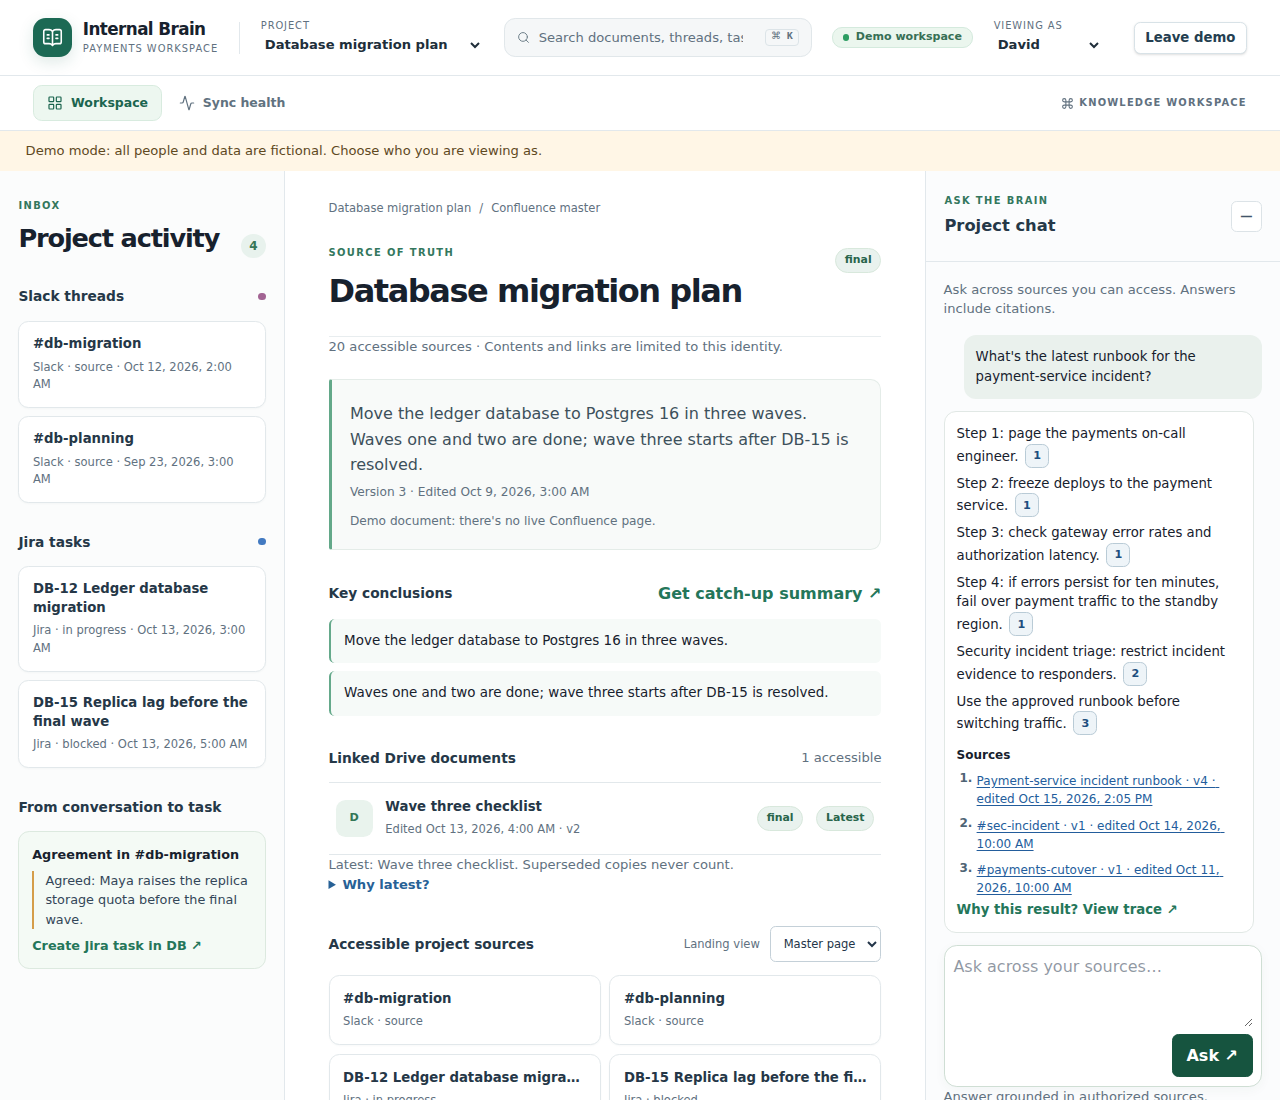
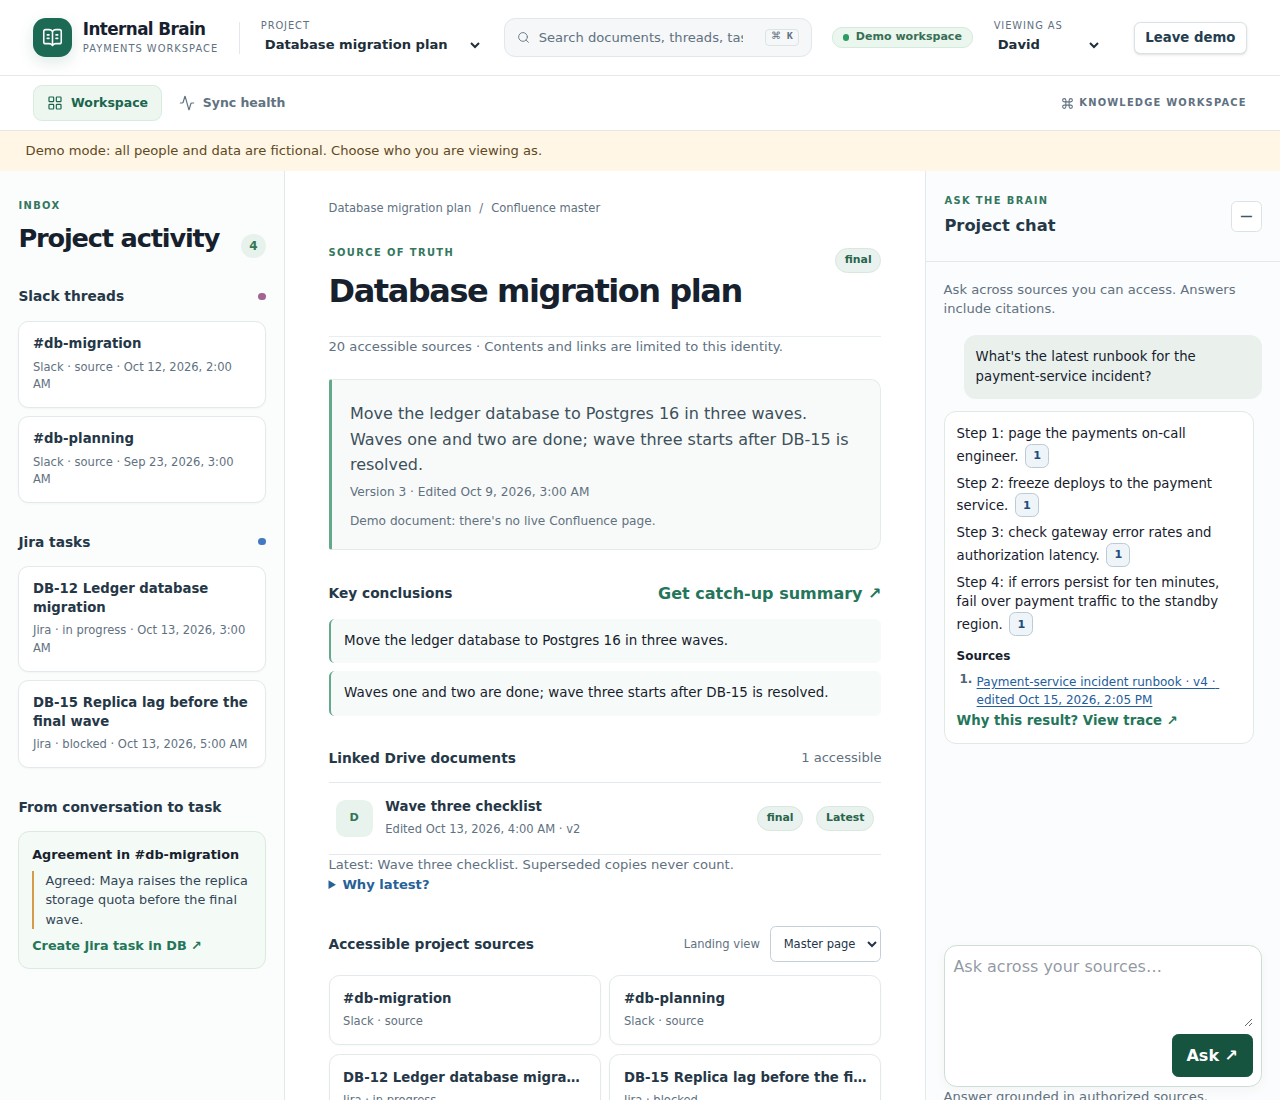
docs: tighter search; log decisions D68-D70

Changed region(s): [[0.75, 0.5873, 0.9688, 0.8345]]

diff --git a/docs/architecture.md b/docs/architecture.md
@@ -23,7 +23,7 @@ covers hosting and sign-in, and [worked examples](worked-examples.md) shows each
 | --- | --- | --- |
 | **Heterogeneous sources, without flattening permissions** | Each document keeps its platform's own permission shape: Slack channel members, Jira project and issue viewers, Confluence space and page viewers, Drive owner and shared users. [`nativeAllows`](../packages/connectors/src/index.ts) applies that shape on top of brain grants and the tier. Contractors see only what is shared with them by name. | [Connector tests](../packages/connectors/src/index.test.ts): "applies native permission changes without changing content and reports changes". [FGA tests](../packages/fga-adapter/src/remote.test.ts): "denies when native source or local tier denies, even if remote allows". [Scenario 4](worked-examples.md#scenario-4-access-changes-apply-to-the-next-question). |
 | **Permission-aware retrieval** | Search returns IDs only, and access is decided on document IDs before any text is read (① ②). Each document is checked again at its source before its text enters the context (④). When nothing is allowed, every asker gets the same fixed reply. | [Brain tests](../apps/api/src/brain.test.ts): "never sends denied titles or private channel names to the LLM", "applies a live permission revocation on the next query". [Scenario 3](worked-examples.md#scenario-3-no-hint-that-restricted-content-exists). |
-| **Context across platforms** | The [query plan](../apps/api/src/query-plan.ts) reads the platforms and time window a question names. Links the sources make themselves (Jira issue links and attachments, Confluence page links, and issue keys and links in text) bring in a ticket's linked thread, page and files, one hop from the documents the asker may open. Platforms with a clearly relevant match take turns, Jira passages state the issue status, and the context holds up to 8 passages. | [Scenario tests](../apps/api/src/scenarios.test.ts): scenario 1, and "Context assembly: linked items", such as "never follows links from a document the asker may not open". [Query plan tests](../apps/api/src/query-plan.test.ts). [Scenario 1](worked-examples.md#scenario-1-one-question-across-platforms). |
+| **Context across platforms** | The [query plan](../apps/api/src/query-plan.ts) reads the platforms and time window a question names, and a question that names a project the asker can open keeps to its items. Outside a project, a match must cover at least half as many of the question's distinctive words as the best match. Links the sources make themselves (Jira issue links and attachments, Confluence page links, and issue keys and links in text) bring in a ticket's linked thread, page and files, one hop from the documents the asker may open. Platforms with a clearly relevant match take turns, Jira passages state the issue status, and the context holds up to 8 passages. | [Scenario tests](../apps/api/src/scenarios.test.ts): scenario 1, and "Context assembly: linked items", such as "never follows links from a document the asker may not open". [Query plan tests](../apps/api/src/query-plan.test.ts). [Scenario 1](worked-examples.md#scenario-1-one-question-across-platforms). |
 | **Audit trail: tamper-evident, complete, queryable** | Every step of sync and of each question appends an event to a hash chain (⑤). Merkle batches are sealed on every sync and signed in SSO mode, and Supabase rejects updates and deletes. Compliance search reads plain-English questions and answers "who retrieved this document". | Brain tests: "produces a verifiable Merkle inclusion proof". [Audit tests](../packages/audit/src/index.test.ts). [Scenario 5](worked-examples.md#scenario-5-the-audit-trail-answers-compliance-questions), including the tamper checks. |
 | **LLM safety** | A writer sees only the question and passages the asker may see, freshly checked. The answer checker keeps a line only when a passage it cites backs it: copied word for word, or reworded with the same facts, status, negation and hedging. Lines it leaves out are counted for the asker and recorded, with their text, for compliance. A model runs behind a usage meter, and the built-in writer takes over when it can't answer. | [Checker tests](../packages/retrieval/src/grounding.test.ts): the rule set, one-fact changes to every demo sentence, a held-out set and the known gaps. Brain tests: "removes uncited output", "The answer checker" and the "When the language model can't answer" suite. [Usage meter tests](../apps/api/src/llm-budget.test.ts). |
 
@@ -55,7 +55,7 @@ flowchart TB
   Tomb --> Permissions
 
   subgraph QueryLane["Query"]
-    Question["Question from a<br/>signed-in person"] --> Plan["Plan: platforms named,<br/>time window"]
+    Question["Question from a<br/>signed-in person"] --> Plan["Plan: platforms, time<br/>window, project named"]
     Plan --> Search["① Hybrid search over the<br/>whole index: keywords,<br/>vectors and freshness;<br/>returns IDs only"]
     Search --> Check["② Access check on<br/>document IDs only"]
     Check --> Links["Follow links one hop,<br/>from allowed documents<br/>only, then ② again"]
@@ -119,26 +119,39 @@ flowchart TB
 ## The query path
 
 1. **Plan:** the question's platform names and time window shape the search ("Slack last week").
+   - **Project:** a question that names a project keeps to that project's items. Every distinctive word of the master
+     page's title must be in the question, and exactly one project must match.
+   - **Access:** the master page is checked like any document. The scope applies only if the asker may open it, so a
+     hidden project's name changes nothing and never reaches their trace.
 2. **Search:** the local index ranks every chunk. With Supabase and embeddings set, the `hybrid_search` RPC can
    reorder chunks that also pass the local relevance check.
+   - **Words:** a word and its synonyms count once.
+   - **Generic words:** status, update, project, plan, team, issue, task, raised and a few more name no topic. They
+     count a quarter as much, and make no match on their own unless the question has nothing more specific.
 3. **Access check on IDs:** local grants, native rules and the tier decide each candidate document. Contractors are
    denied unless a document is shared with them by name, and remote FGA must agree when it is set. With nothing
    allowed, the API returns the fixed reply.
-4. **Follow links:** links are followed one hop, in either direction, from the allowed documents that clearly match
+4. **Keep what covers the question:** outside a project, a match must cover at least half as many distinctive words,
+   rounded up, as the best allowed match.
+   - **No side channel:** the bar comes from allowed matches only, so a denied document can't move it.
+   - **Meaning:** a match found by meaning alone stays if it is at least as close as the closest match that clears
+     the bar.
+   - **History:** superseded copies don't set the bar unless the question asks for history.
+5. **Follow links:** links are followed one hop, in either direction, from the matches that stay and clearly match
    (at least half the best of them, up to eight).
    - A denied document's links are never followed, so nothing hidden can steer an answer.
    - A linked item scores half the item it came through, keeps to the question's time window and passes the same
      access check.
    - It never takes the places of a platform the question named, nor makes a platform count as clearly relevant.
-5. **Choose passages:** superseded documents are set aside unless the question asks for history ("old",
+6. **Choose passages:** superseded documents are set aside unless the question asks for history ("old",
    "previous"). Platforms with a clearly relevant match take turns.
-6. **Live check:** each passage's document is checked at the source once before its text is used, up to 8 passages.
+7. **Live check:** each passage's document is checked at the source once before its text is used, up to 8 passages.
    A linked item counts only while the item it came through passes too.
-7. **Write and check:** the writer answers from those passages. A line is kept only when a passage it cites backs it,
+8. **Write and check:** the writer answers from those passages. A line is kept only when a passage it cites backs it,
    copied word for word or reworded with the same facts, status, negation and hedging. The asker learns how many lines
    were left out and why; the audit keeps their text.
-8. **Recheck:** the person and every cited document are checked again. Any change returns the fixed reply.
-9. **Answer:** citations carry the title, link, version, edit time and index time, and the item a link came through.
+9. **Recheck:** the person and every cited document are checked again. Any change returns the fixed reply.
+10. **Answer:** citations carry the title, link, version, edit time and index time, and the item a link came through.
    Answers also say which platforms and dates were searched, and which project they kept to.
 
 The fixed reply, "No accessible information was found for this query.", is the same for a denied document and for

diff --git a/decisions.md b/decisions.md
@@ -1030,6 +1030,84 @@ Each entry records the options that were considered, what was chosen, and the tr
 - **Screenshots:** six worked-example screenshots and the two README workspace screenshots were re-taken. The audit
   console's didn't change.
 
+## 2026-10-04 — Tighter search
+
+- **Input:** the generated dataset (about 500 items) will be full of status, blocker and project lines from other
+  projects. Measured on the demo data with every test question:
+  - **Scenario 1** sent three tangents to the writer. The payment master page and SETL-27 share only "migration" with
+    the question, and the steering deck only "project".
+  - **Scenario 2** sent two: #sec-incident, which shares only "incident", and #payments-cutover, which shares only
+    "runbook".
+- **How decided:** the user asked to tighten search on 4 Oct. The rules were planned from the measurements and chosen
+  in a planning session. D49 isn't revisited.
+
+### D68 — A question that names a project keeps to it
+- **Options:**
+  - search everything, as before;
+  - scope only through the workspace's catch-up (R9);
+  - scope any question that names a project the asker can open.
+- **Chosen:** any question.
+  - **When a project counts as named:** every distinctive word of its master page's title is in the question, and only
+    one project matches.
+  - **Access:** the master page goes through the normal, audited access check first. A project the asker can't open
+    changes nothing, and its refusal stays out of their own trace.
+- **Why not more:** when two projects are named there's no scope, rather than a guess.
+
+### D69 — A match must cover at least half of what the best match covers
+- **Options:**
+  - drop matches that score under half the best score (planned in R10);
+  - drop matches that cover fewer than half as many distinctive words, rounded up, as the best match;
+  - both.
+- **Chosen:** coverage.
+  - **A score floor fails here:** at half the best score it would keep #sec-incident, at 0.68 of the best, because
+    the score barely rewards matching more of the question.
+  - **The coverage rule works:** it drops both scenario 2 tangents and keeps every required item. DB-15 covers 2 of 3
+    words, the PAY-101 sources 1–2 of 2, and the catch-up's chargeback guide 1 of 2.
+- **Where it applies:** outside a project scope only, and to search matches only. Linked items keep their own rule,
+  and links are followed only from matches that stay. Superseded copies don't set the bar unless the question asks
+  for history, since they're set aside later anyway.
+- **No side channel:** the bar is computed only from matches the asker may open.
+- **Matches by meaning:** one found by meaning alone stays if it is at least as close as the closest match that clears
+  the bar. With no word in common anywhere, meaning decides alone. This isn't measured on real vectors yet, because the
+  sandbox can't reach Cloudflare.
+
+### D70 — Generic work words count less
+- **Chosen:** a fixed list of words that name no topic, with their plurals: status, update, project, plan, team, issue,
+  task, ticket, raised, need, note, progress, work, item, page, doc, document, file, channel, thread, new, first, read,
+  help, info.
+- **What they do:**
+  - never make a match on their own, unless the question has nothing else;
+  - count a quarter as much in the score;
+  - don't count toward coverage.
+- **Synonyms:** a word and its synonyms now count once. Before, "payment" counted as three topics.
+- **Why a fixed list:** word statistics over the whole index would let restricted documents shape what others see
+  (R10).
+- **Trade-off:** the list is a judgment call. "Blocker" stays off it, because "blockers raised in Slack" is a real
+  topic. A noise test guards the effect.
+
+### Implementation details (tighter search)
+- **Retrieval:** `queryConcepts`, `distinctiveWords` and the `GENERIC` list are in `packages/retrieval/src/index.ts`.
+  Each hit reports `coverage` and, when it has one, `semantic`. Supabase results take theirs from the local hit.
+- **Brain:** `namedProject` and `coveringHits` are in `apps/api/src/brain.ts`. Projects are counted the way
+  `projectsFor` counts them, over the index.
+- **Tests:**
+  - **Retrieval:** synonyms count once, a generic word alone makes no match, the weighting, and the reported coverage
+    and semantic score.
+  - **Scenarios:**
+    - the scope;
+    - a hidden project, and two projects named;
+    - scenario 2 sends the runbook alone;
+    - a denied document can't raise the bar;
+    - project items that match one word stay;
+    - a noise test that adds another project's status, blocker and incident lines David can open.
+  - **`coveringHits`:** unit tests. The one for matches by meaning was confirmed by breaking the rule on purpose.
+- **Effects on the worked examples:**
+  - Scenario 1 keeps its four cited lines and reads "kept to Database migration plan".
+  - Scenario 2 cites the runbook alone.
+  - Scenario 4 ends on the wave checklist instead of the payment master page.
+  - Scenario 5 finds fewer entries.
+  - `docs/worked-examples-model.md` was captured before this round.
+
 ---
 
 ## Deferred (not decided yet)

diff --git a/README.md b/README.md
@@ -65,7 +65,7 @@ The challenge brief's scenarios run on the mock data as written:
 
 **[Worked examples](docs/worked-examples.md)** walk through all five with the real answers, citations, access decisions, audit entries and screenshots. `pnpm scenarios` regenerates that page, and `pnpm test` fails when it no longer matches what the code does. `pnpm scenarios:model` runs the same steps with the configured language model and writes [`docs/worked-examples-model.md`](docs/worked-examples-model.md); its calls count against the usage meter. The run committed there is Groq's `openai/gpt-oss-120b` with Cloudflare's embeddings, captured on 3 Oct: the same four sources in scenario 1, every runbook step, and the fixed reply for Wei and Alex.
 
-A question that names a platform (Slack, Jira, Confluence, Drive) gets that platform first. A time it names ("last week", "past 3 days", "yesterday") limits that platform, or every platform when none is named. Other platforms with a clearly relevant match take turns, so one answer can cite all four. The most relevant source is quoted in full, and the next three add their best sentence. Mock dates move forward with the clock, so "last week" keeps finding the demo data.
+A question that names a platform (Slack, Jira, Confluence, Drive) gets that platform first. A time it names ("last week", "past 3 days", "yesterday") limits that platform, or every platform when none is named. Other platforms with a clearly relevant match take turns, so one answer can cite all four. A question that names a project you can open (the title of its master page) keeps to that project's items, and the answer says so. Words that name no topic, such as status, project or update, count less and make no match on their own when the question has more specific words. A match must also cover at least half as many of the question's distinctive words as the best one. The most relevant source is quoted in full, and the next three add their best sentence. Mock dates move forward with the clock, so "last week" keeps finding the demo data.
 
 In the default demo, changes made through admin routes or workspace actions alter only the running mock process and reset on restart. Content edits increment a source version and sync immediately. A permission edit changes grants without rebuilding chunks. Sync also compares source IDs and tombstones deleted fixtures. Search finds candidate IDs before permission checks; the API checks selected documents against the source before building answer context and again after generation, before returning it. A revoked item causes a fixed no-result response on that query. In live mode, change source permissions and content at the provider.
 
